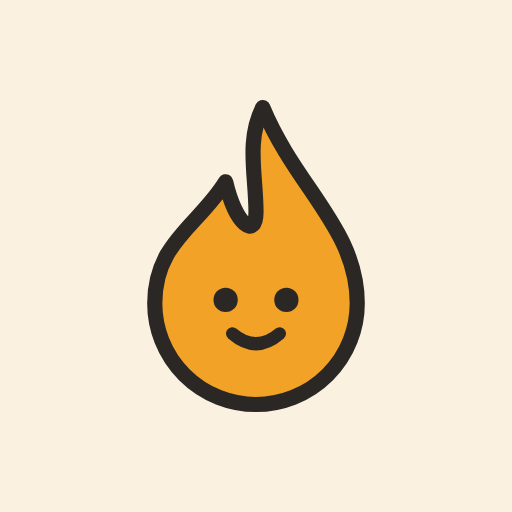
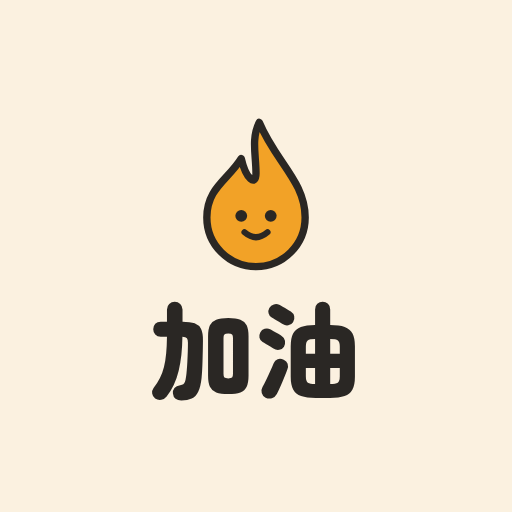
アプリアイコンに「加油」の文字を復活、炎より文字が大きく見えるバランスに
炎キャラクターだけに戻していたが、本来のアプリアイコンは炎のイラストと
「加油」の文字を組み合わせたデザインだった。ヘッダーと同じ顔つきの炎
キャラクターの下に「加油」を配置し直し、文字の方が視覚的に大きく・主役に
見えるバランスに調整。

「加油」はZen Maru Gothic(900)の実フォントを使用。Google Fontsから
加/油の2文字だけに絞ったwoff2サブセット(約1.5KB)を取得し、SVGに
base64で埋め込むことで、外部フォント読み込み無しに単体で正しく描画
されるようにした。

CACHE_VERSIONをv24に更新。

Changed region(s): [[0.2812, 0.1875, 0.7188, 0.8125]]

diff --git a/sw.js b/sw.js
@@ -5,7 +5,7 @@
    ・Firebase / Google 系の通信は常にネット直結（キャッシュしない＝同期・ログインに影響なし）
    ※ アプリを更新したら下の CACHE_VERSION の数字を1つ上げてコミットしてください。 */
 
-const CACHE_VERSION = 'hsk4-cache-v23';
+const CACHE_VERSION = 'hsk4-cache-v24';
 const PRECACHE = [
   './',
   './index.html',
